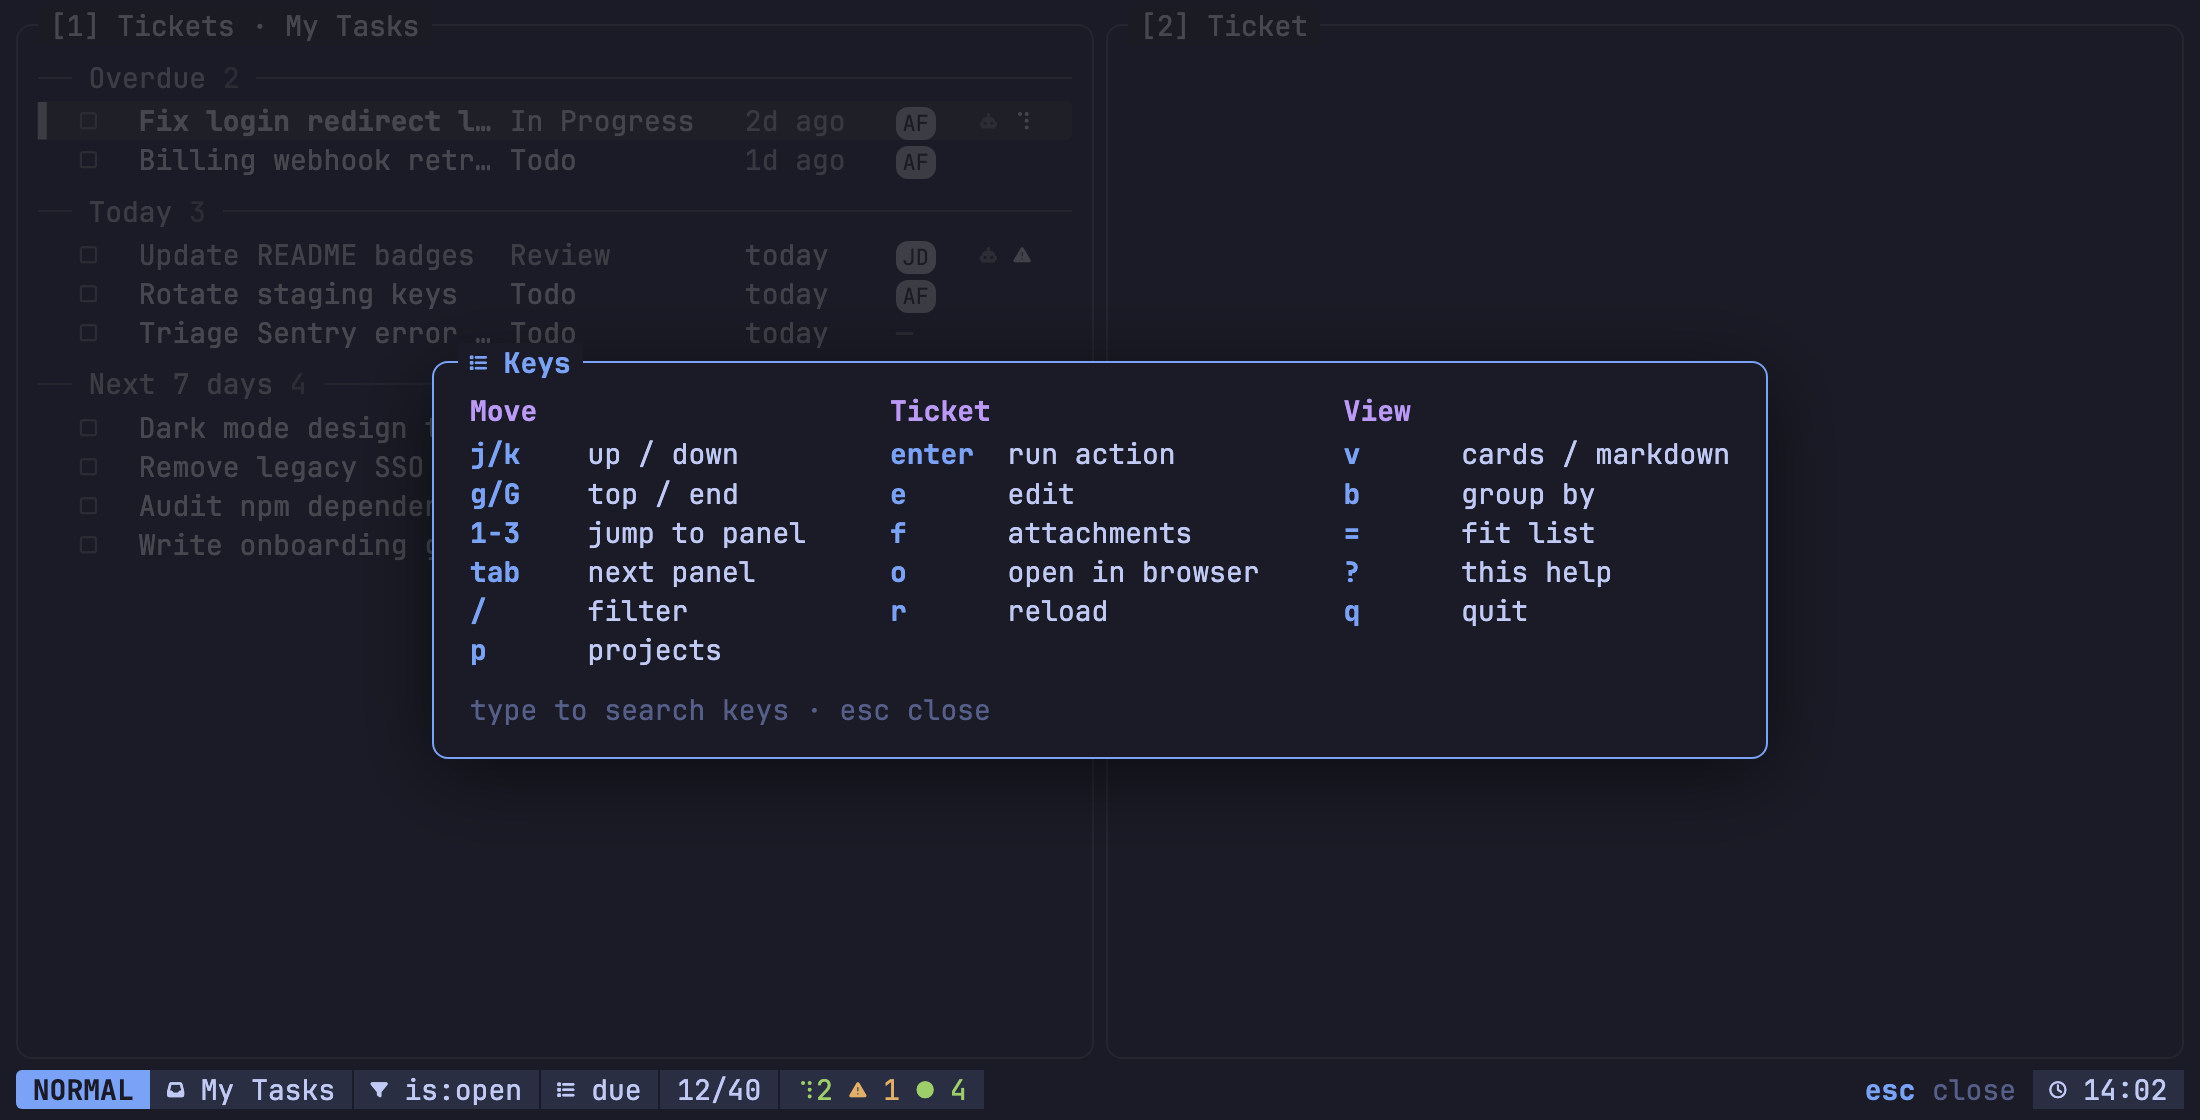
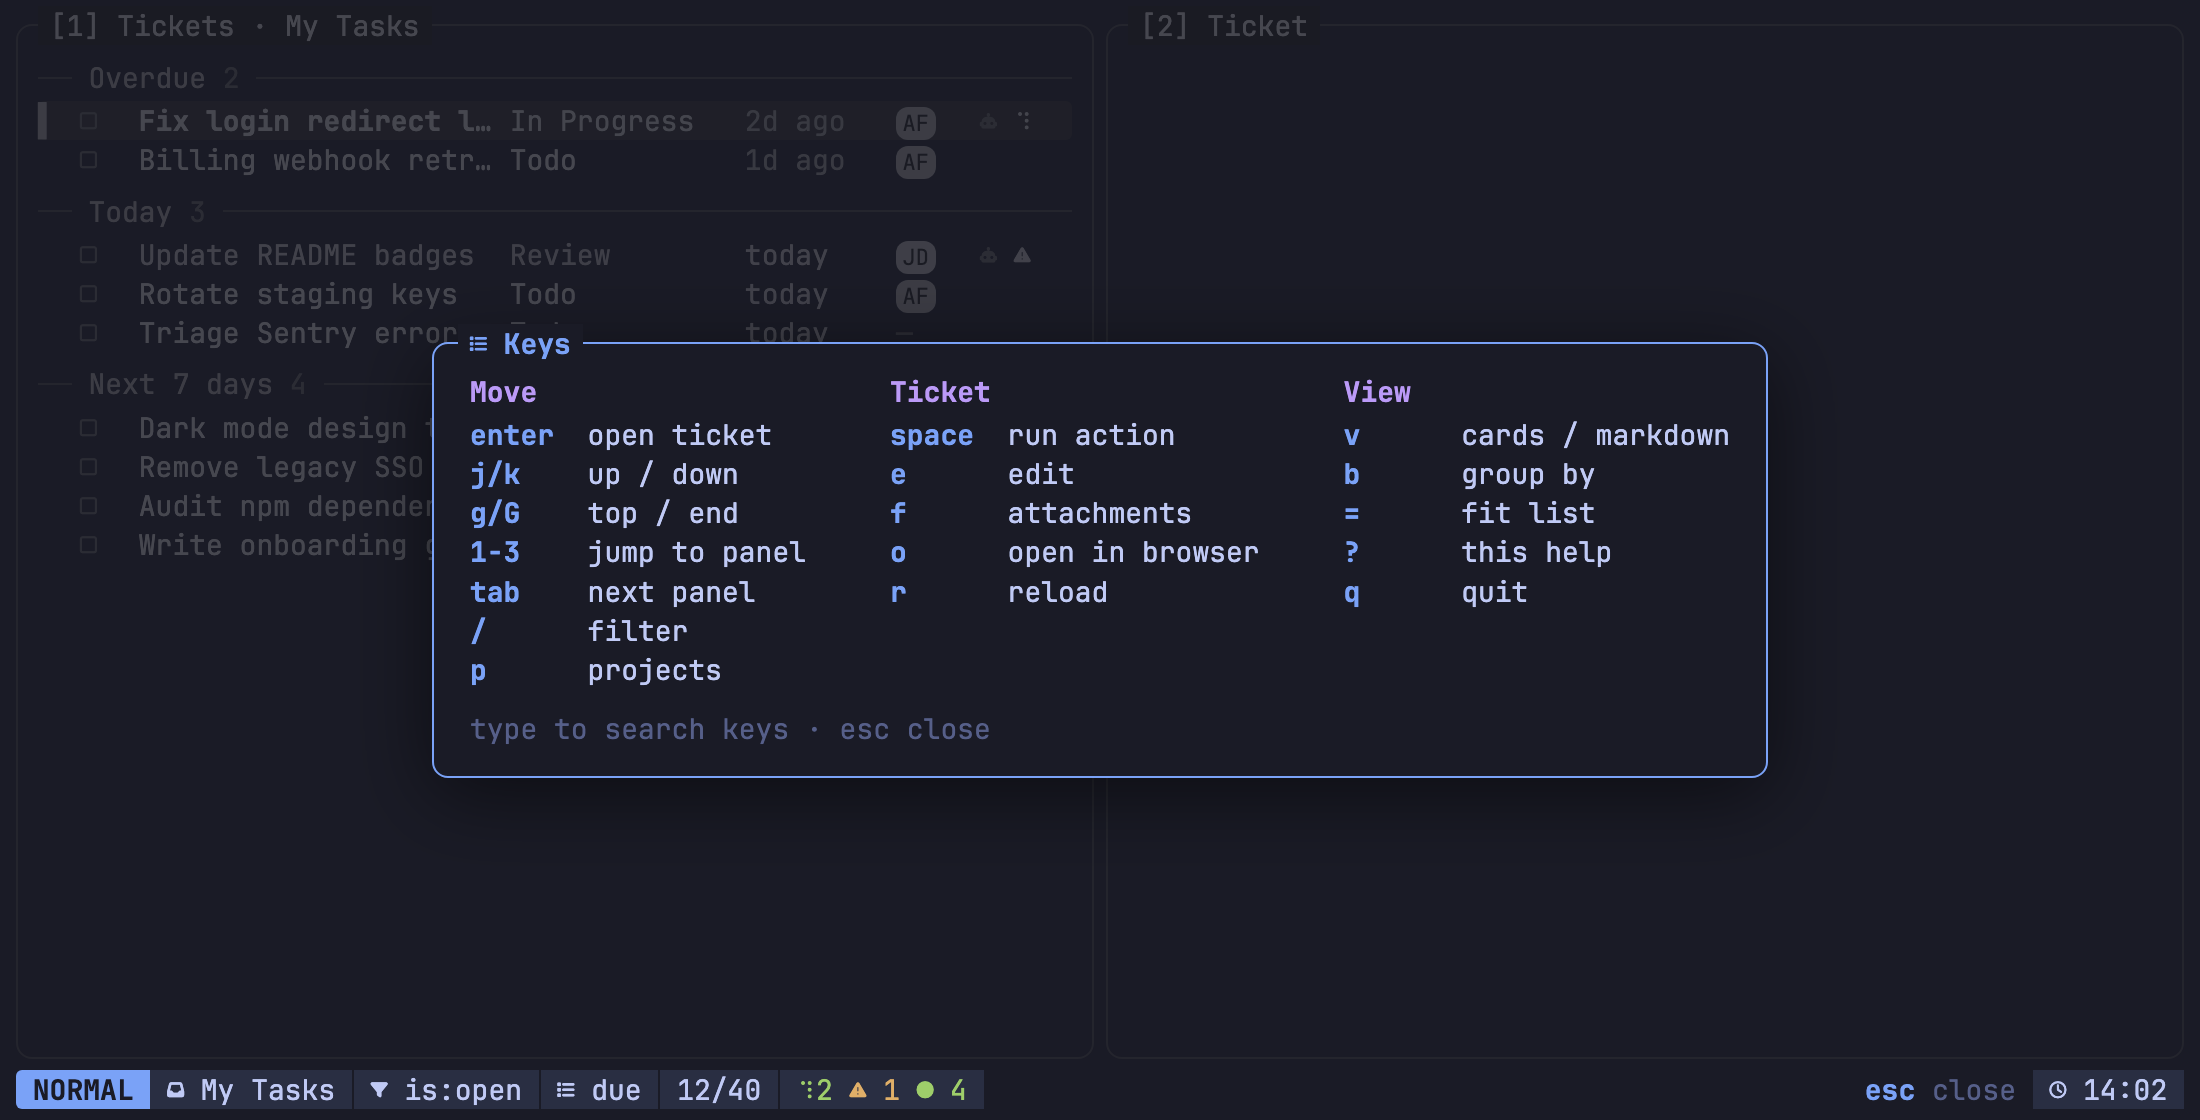
docs: document configurable keys and the v0.2.0 layout

diff --git a/docs/mocks/src/d-whichkey.html b/docs/mocks/src/d-whichkey.html
@@ -16,11 +16,12 @@
 <div class="overlay"><div class="modal"><span class="ct">${ICON.list} Keys</span>
   <div class="keys">
     <div><div class="g">Move</div>
+      <div><span class="k">enter</span> open ticket</div>
       <div><span class="k">j/k</span> up / down</div><div><span class="k">g/G</span> top / end</div>
       <div><span class="k">1-3</span> jump to panel</div><div><span class="k">tab</span> next panel</div>
       <div><span class="k">/</span> filter</div><div><span class="k">p</span> projects</div></div>
     <div><div class="g">Ticket</div>
-      <div><span class="k">enter</span> run action</div><div><span class="k">e</span> edit</div>
+      <div><span class="k">space</span> run action</div><div><span class="k">e</span> edit</div>
       <div><span class="k">f</span> attachments</div><div><span class="k">o</span> open in browser</div>
       <div><span class="k">r</span> reload</div></div>
     <div><div class="g">View</div>

diff --git a/README.md b/README.md
@@ -160,20 +160,20 @@ key press.
 | `g`/`G` | first/last ticket; in the reader, jump to its top or bottom (in cards view, selecting the first or last field, section, or comment) |
 | `ctrl+d`/`ctrl+u` | half page down/up in the list, or scroll the reader half a page |
 | `ctrl+f`/`ctrl+b` (or pgdown/pgup) | page down/up in the list, or scroll the reader a page |
-| `tab` / `shift+tab` | focus the next/previous pane: the views panel (wide screens), the list, and the reader; in the cards view, entering the reader selects its first editable row |
-| `enter` (reader, editable row selected) | edit the selected row, skipping the `e` menu; Add comment opens the comment editor |
-| `esc` (reader) | return focus to the list |
+| `tab`/`shift+tab`, `l`/`h` | focus the next/previous pane: the views panel (wide screens), the list, and the reader; in the cards view, entering the reader selects its first editable row |
+| `enter` | in the list, open the ticket in the reader; in the reader, edit the selected row (Add comment opens the comment editor) |
+| `esc` | return focus to the list |
 | `0` / `1` / `2` | focus the views panel (wide screens) / the list / the reader |
-| `/` | edit the filter (available fields appear while editing; `?` opens the filter guide; Enter or Esc to finish) |
+| `/` | edit the filter (available fields appear while editing; `ctrl+/` opens the filter guide; `enter` keeps the filter, `esc` restores the previous one) |
 | `p` | switch project (recent first) |
 | `H` | ticket history: the last 10 tickets focused in the reader, most recent first; picking one selects it (keeping it in the Viewing section when the view doesn't show it) and focuses the reader |
 | `L` | repo links: link, relink, or unlink each project's repo (starts on the viewed project), or give the selected ticket its own repo that overrides its projects' links without changing them |
 | `space`, `a` | run an action on the selected ticket |
-| `ctrl+a` | create or edit action files (also available in Settings) |
+| `A` | create or edit action files (also available in Settings) |
 | `P` | pin / unpin the selected ticket; pins persist locally per project or My Tasks, above filtered tickets |
 | `e` | edit the selected ticket: add a comment, move it to a section (of a project, or of My Tasks when it is yours), add or remove a project, set a custom field (text, number, date, single- or multi-select, people), assign it, or set its branch (saved locally, overrides `branch_field`; empty removes it) |
-| `C` | add a comment to the selected ticket, from the list or the reader |
-| `d` / `m` / `A` | set the due date / move to a section / assign, skipping the `e` menu |
+| `c` | add a comment to the selected ticket, from the list or the reader |
+| `d` / `m` / `@` | set the due date / move to a section / assign, skipping the `e` menu |
 | `.` | run the last picked action again on the selected ticket |
 | `t` | log completed time for the selected ticket (only when time tracking is configured) |
 | `f` | attachments: view images inline (`j`/`k` step between them) or open in the browser |
@@ -186,12 +186,21 @@ key press.
 | `ctrl+s` | save the current filter, grouping, and sorting under a name |
 | `s` | settings: separators, header spacing, reader view, and auto-update interval; changes persist between sessions |
 | `o` | open the ticket in the browser |
-| `c` | copy the selected ticket's link to the clipboard (requires terminal OSC 52 support) |
-| `y` | copy the targeted comment as Markdown in the cards reader (requires terminal OSC 52 support); does nothing on other targets |
+| `y` | copy the selected ticket's link to the clipboard (requires terminal OSC 52 support) |
+| `Y` | copy the targeted comment as Markdown in the cards reader (requires terminal OSC 52 support); does nothing on other targets |
 | `r` | reload tickets and clear the inline image cache (including failed loads) |
 | `R` | set the automatic reload interval (persists between sessions) |
 | `?` | show every key |
 | `q` | quit |
+
+Pickers start in browse mode: `j`/`k` move, `/` searches, `enter` picks, and
+`esc` stops searching or closes. Multi-select pickers check items with `space`
+or `tab` and confirm with `enter`. In the repo picker, `ctrl+s` (or the
+`Use "<path>"` row) uses the typed path. Set `picker.type_first = true` to
+open pickers in search mode.
+
+Every key above can be changed in the `[keys]` tables of `config.toml`; see
+[Configuration](#configuration).
 
 Inline images are cached by attachment for the current session. Manual reload
 downloads the displayed ticket's images again; automatic reload keeps the cache.
@@ -290,6 +299,13 @@ your config; it keeps your values and saves the old file as
 | `list.viewing.color` | `colors.viewing` |
 | `list.selection.color` | `colors.selection` |
 
+Default keys changed too: `enter` in the list opens the reader; `c` adds a
+comment (was `C`); `y` copies the link (was `c`); `Y` copies the targeted
+comment (was `y`); `@` assigns (was `A`); `A` opens the action builder (was
+`ctrl+a`); `ctrl+/` opens the filter guide (was `?`), and `esc` in the filter
+restores the previous filter. Pickers start in browse mode; press `/` to
+search, or set `picker.type_first = true`.
+
 ## Configuration
 
 `~/.config/asanamate/config.toml` (or `$XDG_CONFIG_HOME/asanamate/config.toml`):
@@ -319,6 +335,8 @@ your config; it keeps your values and saves the old file as
 | `reader.view` | `"cards"` | reader's starting view: `cards` (details card, titled sections, one box per comment) or `markdown` (the rendered ticket Markdown); `v` switches and the choice persists |
 | `images.mode` | `"auto"` | kitty graphics: `auto`, `kitty` (force on), or `off` |
 | `images.inline` | `false` | cards view: draw images in descriptions and comments in place of their links (needs `images.mode` on and a terminal with kitty Unicode placeholders, such as kitty or Ghostty) |
+| `picker.type_first` | `false` | open pickers in search mode, so typing filters at once; `esc` leaves search for browse mode |
+| `keys.<scope>.<name>` | see the template | key bindings: a list of keys per binding, such as `[keys.main] quit = ["q", "ctrl+q"]`; `[]` unbinds. Scopes: `main`, `views`, `filter`, `picker`, `form`, `form_field`, `input`, `builder`, `notice`. Keys are a character (`"j"`, `"?"`) or a key name with modifiers (`"ctrl+d"`, `"shift+tab"`, `"enter"`, `"space"`, `"pgdown"`); `ctrl+c` always quits. `asanamate setup` and `asanamate config update` write every binding, commented, with its default |
 | `reader.max_text_width` | `0` | cards view: wrap description and comment text at this many columns (words are kept whole); `0` wraps at the pane width |
 | `repo_source.root` | your setup directory, or empty | directory whose direct children with a `.git` entry (clones and worktrees) fill the repo picker; absolute or starting with `~`; empty: type a path |
 | `repo_source.command` | unset | prints one repo path per line; replaces `repo_source.root` when set |
@@ -494,10 +512,10 @@ time while their existing form and logging operations continue to work.
 
 ## Actions
 
-Press `ctrl+a`, or choose **Build / edit actions** in Settings (`s`, then `a`).
+Press `A`, or choose **Build / edit actions** in Settings (`s`, then `a`).
 Choose **Create action** or an existing action. The builder provides every
 standard action setting, including ordered form fields and select options.
-Use j/k, arrows, or Tab to move, Enter to edit, and Ctrl+S to accept a text
+Use j/k or arrows to move, Enter to edit, and Ctrl+S to accept a text
 edit. Press `/` to search the current menu; Escape clears search and returns
 to navigation. Outside search, Escape returns or discards the draft.
 Help below the list starts with `nf-fa-circle_info` (`\uf05a`) for Nerd Font
@@ -633,7 +651,8 @@ Otherwise it is the project you are viewing (if the ticket is in it), or the
 ticket's only project.
 
 Repo resolution: the first time a project's ticket runs a `repo = true` action,
-you pick a repo from `repo_source` or type any path (Tab). asanamate
+you pick a repo from `repo_source` or type any path (`/`, the path, then
+`ctrl+s`). asanamate
 remembers it. Tickets in several projects always ask which project to use.
 A ticket given its own repo with `L` (**This ticket only**) uses that repo
 instead, skips the project question, and leaves every project link as it is.

diff --git a/docs/deferred-ideas.md b/docs/deferred-ideas.md
@@ -4,21 +4,6 @@ Improvements found during the 2026-09-28 code review that were left out of the
 cleanup. Each one either adds a feature or rewrites behavior, so it needs its
 own design pass. They are recorded here so they can be picked up later.
 
-## Configurable key bindings
-
-**Now:** `keyBindings()` in `internal/tui/keys.go` is the one table of list
-and reader keys: `bindingFor` looks keys up in it for `handleKey`, and the `?`
-help and the NORMAL mode hints render from it. Modals, the filter, the views panel, and the
-cards view's selected row still handle their own keys first, and the hints
-for those modes are written out in `Model.mode`.
-
-**Idea:** Let a `[keys]` config table rebind entries of `keyBindings()`.
-
-**Watch out for:** Adding config keys is a public contract (see `AGENTS.md`).
-Action keys are only read inside the action menu, so they do not collide with
-list keys today. An override system must keep that true, and
-`TestKeyBindingsAreUniqueAndDocumented` should check the merged table.
-
 ## Action run steps
 
 **Now:** `pendingRun` in `internal/tui/flow.go` tracks progress with four
